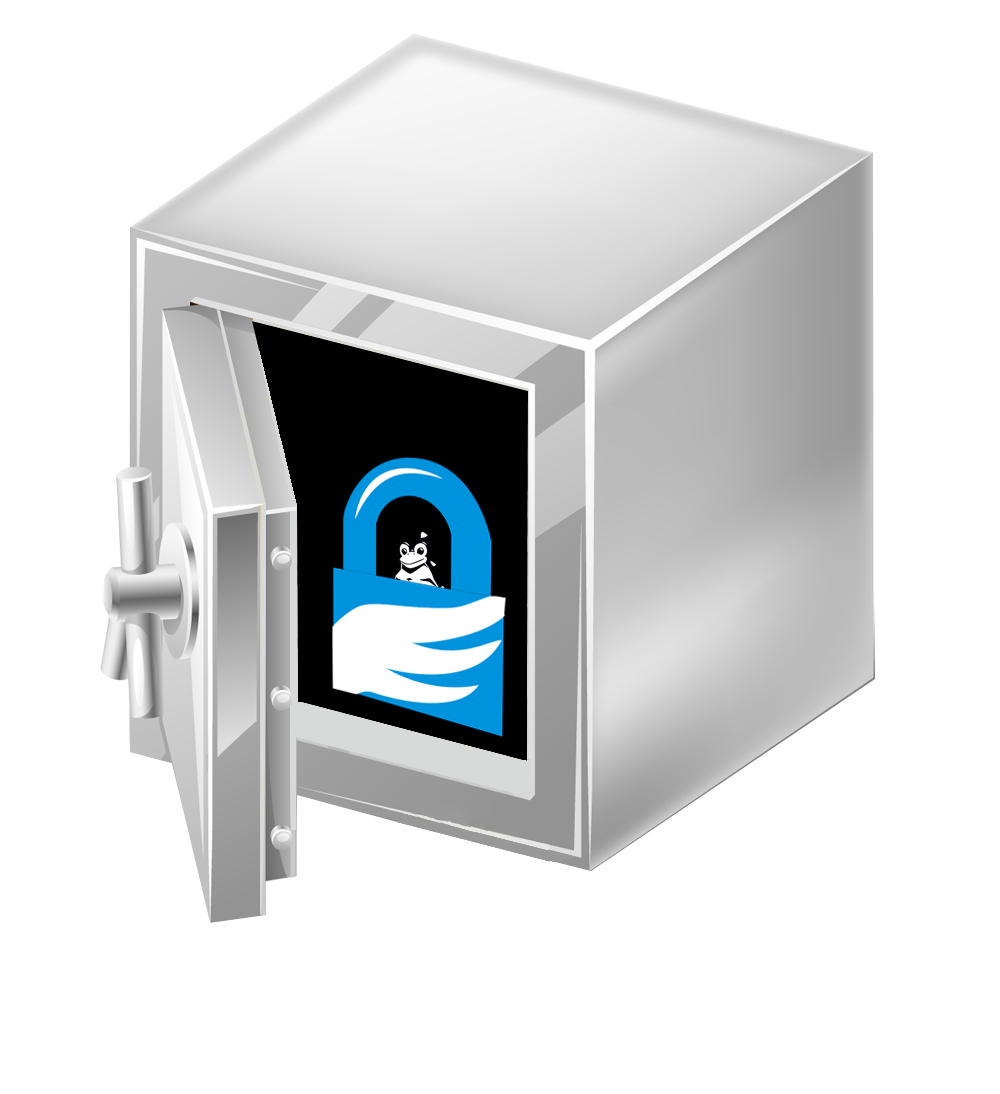
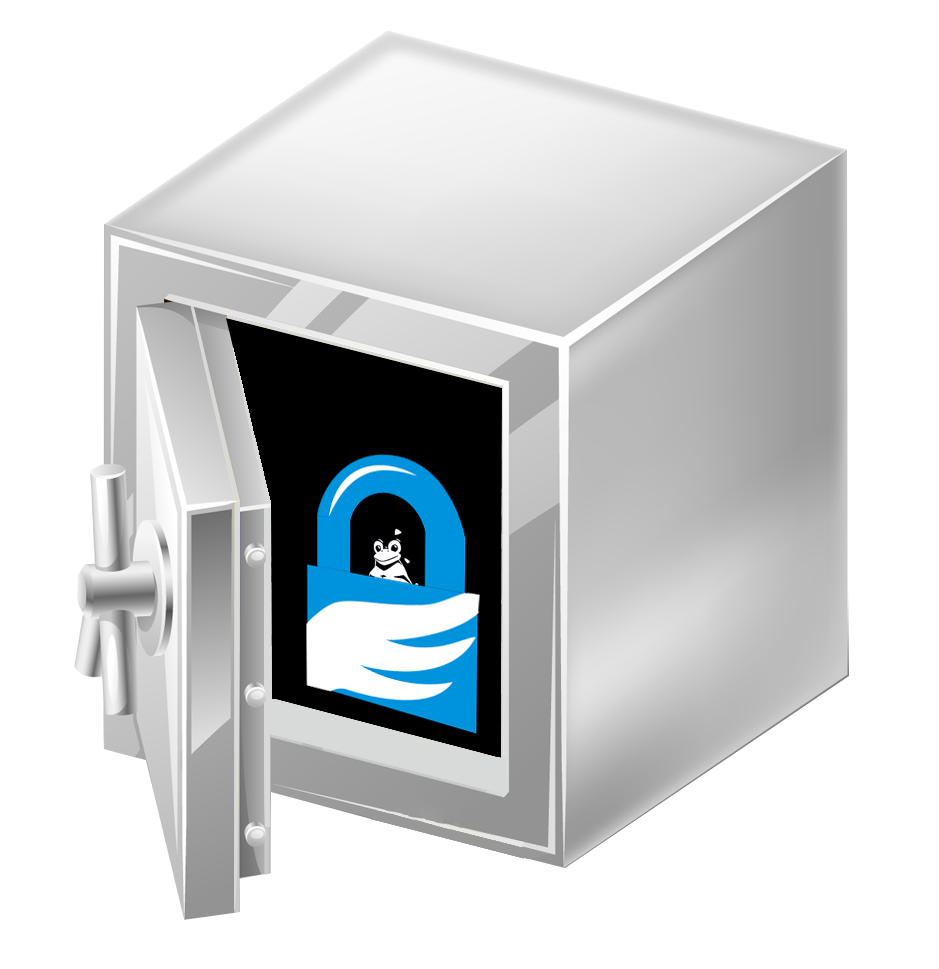
update index

diff --git a/index.html b/index.html
@@ -3,20 +3,27 @@
     <head>
         <title>Savedots</title>
         <link rel="shortcut icon" type="image/x-icon" href="res/favicon.ico">
-        <link rel="stylesheet" href="style.css">
+        <link rel="stylesheet" href="./style.css">
     </head>
     <body>
         <div id="wrapper">
             <h3>Easily and securely store and deploy your dotfiles</h3>
             <img id="safeImage" src="res/safe.png">
             <h3>This site is under development</h3>
+
+            <!-- Copyright -->
             <footer class="footer">
-                <div style="text-align: center;margin-top: 50px;background-color: burlywood">
+                <div style="text-align: center;margin-top: 50px;background-color:#33adff">
                     <p style="margin-bottom:0;">
-                        <strong>savedots </strong> by Karlo (kelj0) Kegljevic, 2019</a>.
+                        <strong>savedots</strong> 2019 Copyright: Karlo (kelj0) Kegljevic
                     </p>
                 </div>
-            </footer> 
+            </footer>
+            <footer class="footer">
+                <div class="copyright">
+                </div>
+            </footer>
+            <!-- Copyright -->
         </div>
     </body>
 </html>

diff --git a/style.css b/style.css
@@ -2,7 +2,7 @@ body{
     background-color: rgb(22, 170, 178);
 }
 #safeImage{
-    width: 40%;
+    width: 38%;
     height: auto;   
 }
 #wrapper{
